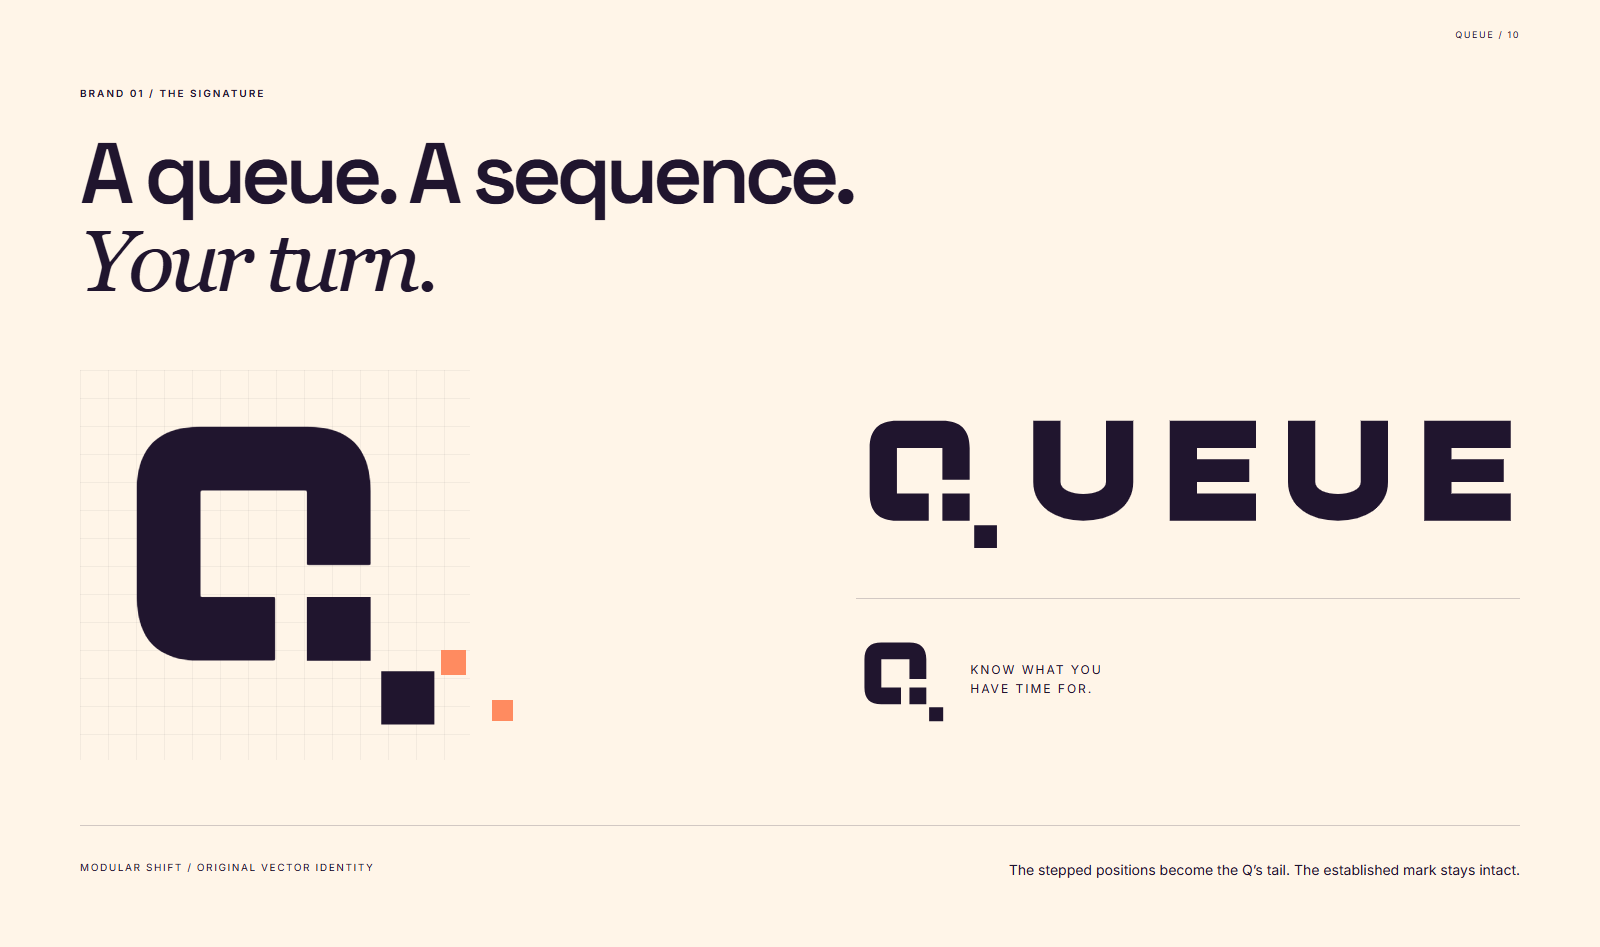
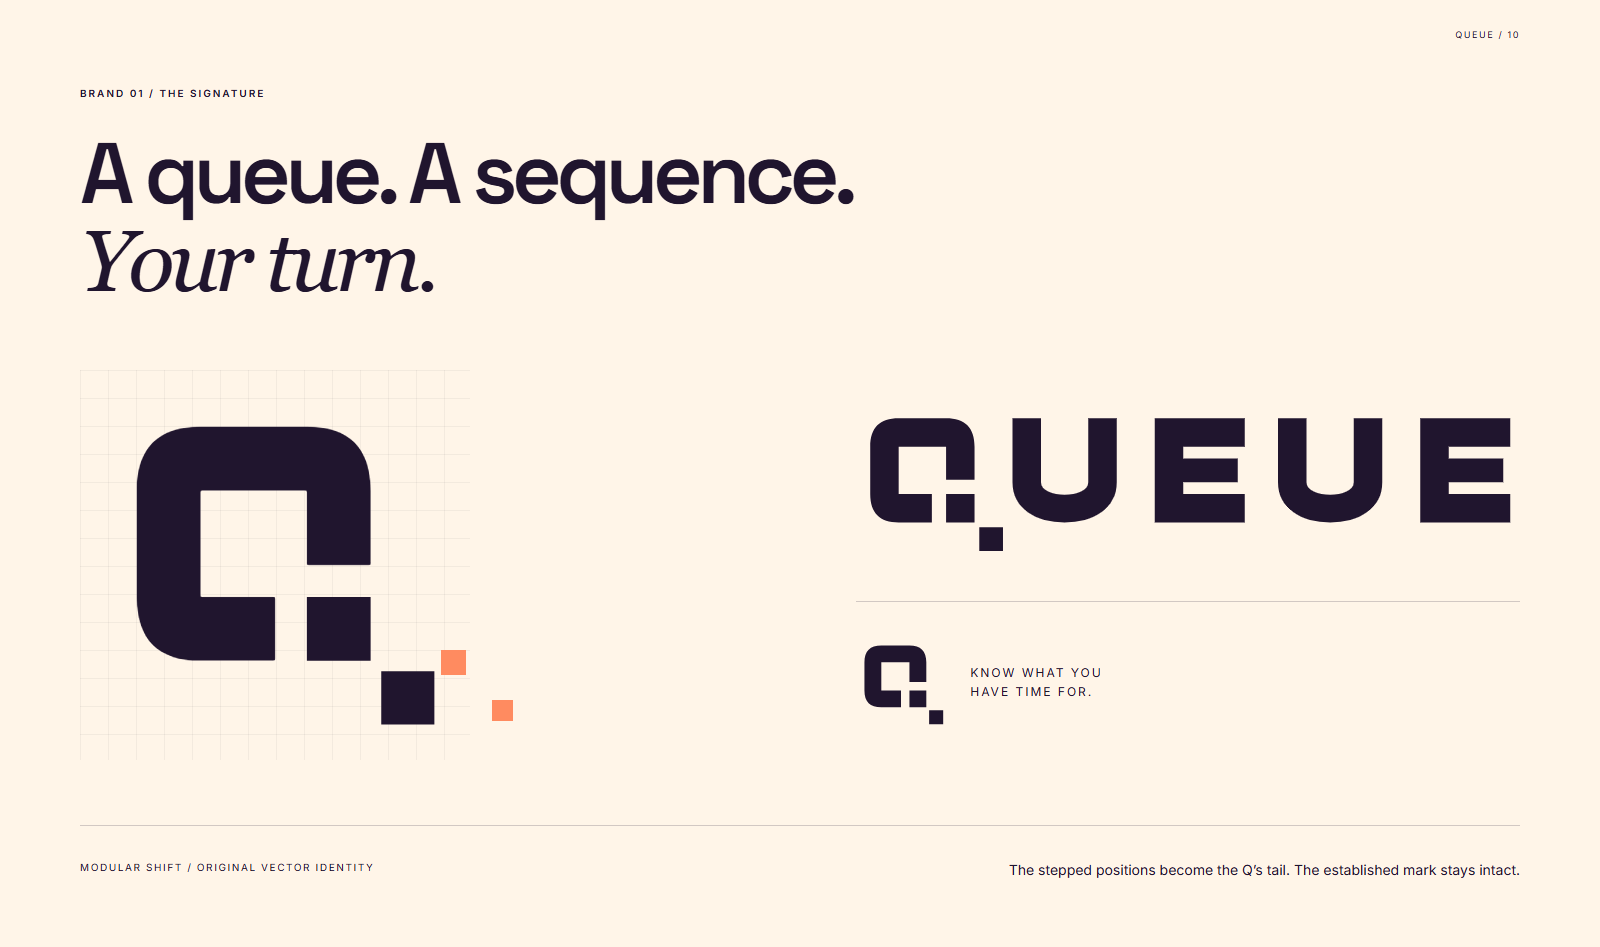
Tighten QUEUE wordmark spacing and preserve complete Q tail

diff --git a/exports/queue-behance/index.html b/exports/queue-behance/index.html
@@ -1,1 +1,1 @@
-<!doctype html><html lang="en"><meta charset="utf-8"><title>QUEUE — illustrated exhibition</title><style>body{margin:0;background:#20152e;color:#fff5e8;font:16px Arial}header{padding:36px}img{display:block;width:100%;max-width:1600px;height:auto;margin:auto}a{color:#a9ead2}</style><header><h1>QUEUE / illustrated brand & product exhibition</h1><p>33 original visual chapters. Static export; native scroll motion lives on the website.</p><a href="https://queue-six-liart.vercel.app/work/queue">Explore the interactive exhibition ↗</a></header><img loading="lazy" src="01-cover.png" width="1600" height="1200" alt="Make room for the moment."><img loading="lazy" src="02-project-overview.png" width="1600" height="833" alt="A night out. A connected plan."><img loading="lazy" src="03-everyday-problem.png" width="1600" height="1077" alt="“It’s only a four-minute queue.”"><img loading="lazy" src="04-the-45-minute-journey.png" width="1600" height="1387" alt="Four minutes waiting. Forty-five minutes living."><img loading="lazy" src="05-evidence-to-objectives.png" width="1600" height="1086" alt="Start with the right kind of confidence."><img loading="lazy" src="06-alternative-approaches.png" width="1600" height="1319" alt="Planners already exist. The opportunity is connection."><img loading="lazy" src="07-the-big-idea.png" width="1600" height="1221" alt="Not just a wait. A whole decision."><img loading="lazy" src="08-flow-and-architecture.png" width="1600" height="2026" alt="Follow the decision. Keep the way back."><img loading="lazy" src="09-ideation-to-interface.png" width="1600" height="1331" alt="Make the answer clear. Keep the reasoning close."><img loading="lazy" src="10-identity.png" width="1600" height="947" alt="A queue. A sequence. Your turn."><img loading="lazy" src="11-brand-symbols.png" width="1600" height="784" alt="Little decisions. One connected world."><img loading="lazy" src="12-color.png" width="1600" height="931" alt="A little warmth. A lot of feeling."><img loading="lazy" src="13-typography.png" width="1600" height="1028" alt="LOUD IN FEELING. Clear in function."><img loading="lazy" src="14-illustration-language.png" width="1600" height="1008" alt="Round corners. Unexpected turns. Very human moments."><img loading="lazy" src="15-character-exploration.png" width="1600" height="1004" alt="Three ways to keep you company."><img loading="lazy" src="16-interval.png" width="1600" height="931" alt="A little person. A whole night ahead."><img loading="lazy" src="17-iconography.png" width="1600" height="851" alt="Less guessing. More getting there."><img loading="lazy" src="18-patterns.png" width="1600" height="829" alt="Not background noise. A recognizable rhythm."><img loading="lazy" src="19-motion-language.png" width="1600" height="993" alt="Follow the path. Find your rhythm."><img loading="lazy" src="20-brand-applications.png" width="1600" height="1112" alt="Same spirit. Different surfaces."><img loading="lazy" src="21-identity-in-the-venue.png" width="1600" height="1192" alt="A world beyond the screen."><img loading="lazy" src="22-product-discovery.png" width="1600" height="1333" alt="Your night. Connected."><img loading="lazy" src="23-decisions-in-the-interface.png" width="1600" height="1284" alt="Every detail has a job."><img loading="lazy" src="24-food-decisions.png" width="1600" height="1203" alt="A detour that adds up."><img loading="lazy" src="25-when-plans-change.png" width="1600" height="939" alt="The set moves. Your plan keeps up."><img loading="lazy" src="26-your-people.png" width="1600" height="1203" alt="Less “where are you?” More “see you there.”"><img loading="lazy" src="27-a-better-way.png" width="1600" height="1203" alt="Different routes. The same next moment."><img loading="lazy" src="28-room-for-everyone.png" width="1600" height="1064" alt="Room to breathe. More ways through."><img loading="lazy" src="29-room-to-plan.png" width="1600" height="1588" alt="More space. More perspective."><img loading="lazy" src="30-iteration-and-validation.png" width="1600" height="1678" alt="A map can look complete. It still needs a way through."><img loading="lazy" src="31-reflection.png" width="1600" height="1216" alt="Design the decision. Not just the screen."><img loading="lazy" src="32-the-whole-night.png" width="1600" height="1488" alt="Find your rhythm. Keep your night."><img loading="lazy" src="33-closing.png" width="1600" height="800" alt="Make the moment. Not the mental maths."></html>
+<!doctype html><html lang="en"><meta charset="utf-8"><title>QUEUE — illustrated exhibition</title><style>body{margin:0;background:#20152e;color:#fff5e8;font:16px Arial}header{padding:36px}img{display:block;width:100%;max-width:1600px;height:auto;margin:auto}a{color:#a9ead2}</style><header><h1>QUEUE / illustrated brand & product exhibition</h1><p>33 original visual chapters. Static export; native scroll motion lives on the website.</p><a href="https://queue-six-liart.vercel.app/work/queue">Explore the interactive exhibition ↗</a></header><img loading="lazy" src="01-cover.png" width="1600" height="1200" alt="Make room for the moment."><img loading="lazy" src="02-project-overview.png" width="1600" height="833" alt="A night out. A connected plan."><img loading="lazy" src="03-everyday-problem.png" width="1600" height="1077" alt="“It’s only a four-minute queue.”"><img loading="lazy" src="04-the-45-minute-journey.png" width="1600" height="1387" alt="Four minutes waiting. Forty-five minutes living."><img loading="lazy" src="05-evidence-to-objectives.png" width="1600" height="1086" alt="Start with the right kind of confidence."><img loading="lazy" src="06-alternative-approaches.png" width="1600" height="1319" alt="Planners already exist. The opportunity is connection."><img loading="lazy" src="07-the-big-idea.png" width="1600" height="1221" alt="Not just a wait. A whole decision."><img loading="lazy" src="08-flow-and-architecture.png" width="1600" height="2026" alt="Follow the decision. Keep the way back."><img loading="lazy" src="09-ideation-to-interface.png" width="1600" height="1331" alt="Make the answer clear. Keep the reasoning close."><img loading="lazy" src="10-identity.png" width="1600" height="947" alt="A queue. A sequence. Your turn."><img loading="lazy" src="11-brand-symbols.png" width="1600" height="784" alt="Little decisions. One connected world."><img loading="lazy" src="12-color.png" width="1600" height="931" alt="A little warmth. A lot of feeling."><img loading="lazy" src="13-typography.png" width="1600" height="1028" alt="LOUD IN FEELING. Clear in function."><img loading="lazy" src="14-illustration-language.png" width="1600" height="1008" alt="Round corners. Unexpected turns. Very human moments."><img loading="lazy" src="15-character-exploration.png" width="1600" height="1004" alt="Three ways to keep you company."><img loading="lazy" src="16-interval.png" width="1600" height="931" alt="A little person. A whole night ahead."><img loading="lazy" src="17-iconography.png" width="1600" height="851" alt="Less guessing. More getting there."><img loading="lazy" src="18-patterns.png" width="1600" height="829" alt="Not background noise. A recognizable rhythm."><img loading="lazy" src="19-motion-language.png" width="1600" height="993" alt="Follow the path. Find your rhythm."><img loading="lazy" src="20-brand-applications.png" width="1600" height="1116" alt="Same spirit. Different surfaces."><img loading="lazy" src="21-identity-in-the-venue.png" width="1600" height="1192" alt="A world beyond the screen."><img loading="lazy" src="22-product-discovery.png" width="1600" height="1333" alt="Your night. Connected."><img loading="lazy" src="23-decisions-in-the-interface.png" width="1600" height="1284" alt="Every detail has a job."><img loading="lazy" src="24-food-decisions.png" width="1600" height="1203" alt="A detour that adds up."><img loading="lazy" src="25-when-plans-change.png" width="1600" height="939" alt="The set moves. Your plan keeps up."><img loading="lazy" src="26-your-people.png" width="1600" height="1203" alt="Less “where are you?” More “see you there.”"><img loading="lazy" src="27-a-better-way.png" width="1600" height="1203" alt="Different routes. The same next moment."><img loading="lazy" src="28-room-for-everyone.png" width="1600" height="1064" alt="Room to breathe. More ways through."><img loading="lazy" src="29-room-to-plan.png" width="1600" height="1588" alt="More space. More perspective."><img loading="lazy" src="30-iteration-and-validation.png" width="1600" height="1678" alt="A map can look complete. It still needs a way through."><img loading="lazy" src="31-reflection.png" width="1600" height="1216" alt="Design the decision. Not just the screen."><img loading="lazy" src="32-the-whole-night.png" width="1600" height="1499" alt="Find your rhythm. Keep your night."><img loading="lazy" src="33-closing.png" width="1600" height="800" alt="Make the moment. Not the mental maths."></html>

diff --git a/src/brand-identity.js b/src/brand-identity.js
@@ -8,6 +8,6 @@ export const concepts=[
  {name:'06 / Typographic cut',idea:'A compact type character with a deliberate diagonal release.',shape:'<path fill-rule="evenodd" d="M31 5C15 5 6 14 6 29s9 24 25 24 25-9 25-24S47 5 31 5Zm0 11c8 0 13 5 13 13s-5 13-13 13-13-5-13-13 5-13 13-13Z"/><path d="m32 32 26 20-8 10-26-21Z"/>',scores:[3,5,3,5,5,5,5]}
 ];
 export const markPaths=concepts[3].shape;
-export const wordPaths=`${markPaths}<path d="M78 6h12v27c0 7 20 7 20 0V6h12v27c0 11-10 17-22 17S78 44 78 33ZM138 6h38v12h-26v5h23v10h-23v5h26v12h-38ZM190 6h12v27c0 7 20 7 20 0V6h12v27c0 11-10 17-22 17s-22-6-22-17ZM250 6h38v12h-26v5h23v10h-23v5h26v12h-38Z"/>`;
+export const wordPaths=`${markPaths}<g transform="translate(-12 0)"><path d="M78 6h12v27c0 7 20 7 20 0V6h12v27c0 11-10 17-22 17S78 44 78 33ZM138 6h38v12h-26v5h23v10h-23v5h26v12h-38ZM190 6h12v27c0 7 20 7 20 0V6h12v27c0 11-10 17-22 17s-22-6-22-17ZM250 6h38v12h-26v5h23v10h-23v5h26v12h-38Z"/></g>`;
 export const LogoMark=({label='',className=''}={})=>`<svg class="brand-mark ${className}" xmlns="http://www.w3.org/2000/svg" viewBox="0 0 64 64" fill="currentColor" ${label?`role="img" aria-label="${label}"`:'aria-hidden="true"'}>${markPaths}</svg>`;
-export const Logo=({variant='wordmark',label='',className=''}={})=>variant==='mark'?LogoMark({label,className}):`<svg class="brand-logo ${className}" xmlns="http://www.w3.org/2000/svg" viewBox="0 0 ${variant==='primary'?380:292} 64" fill="currentColor" ${label?`role="img" aria-label="${label}"`:'aria-hidden="true"'}>${variant==='primary'?markPaths+'<g transform="translate(88)">'+wordPaths+'</g>':wordPaths}</svg>`;
+export const Logo=({variant='wordmark',label='',className=''}={})=>variant==='mark'?LogoMark({label,className}):`<svg class="brand-logo ${className}" xmlns="http://www.w3.org/2000/svg" viewBox="0 0 ${variant==='primary'?368:280} 64" fill="currentColor" ${label?`role="img" aria-label="${label}"`:'aria-hidden="true"'}>${variant==='primary'?markPaths+'<g transform="translate(88)">'+wordPaths+'</g>':wordPaths}</svg>`;

diff --git a/src/queue-scroll.js b/src/queue-scroll.js
@@ -39,7 +39,7 @@ export function initExhibition(root){
    study.querySelectorAll('.qx-pattern-window svg').forEach((el,i)=>gsap.fromTo(el,{xPercent:i?8:-8},{xPercent:i?-8:8,ease:'none',scrollTrigger:{trigger:'#patterns',start:'top bottom',end:'bottom top',scrub:true}}));
    gsap.fromTo('.qx-icon-field .icon',{rotation:-12},{rotation:12,stagger:.05,ease:'none',scrollTrigger:{trigger:'#iconography',start:'top 80%',end:'bottom 30%',scrub:true}});
    gsap.fromTo('.qx-celebration .qa-arm',{rotation:-9,transformOrigin:'50% 75%'},{rotation:12,stagger:.1,ease:'none',scrollTrigger:{trigger:'#the-whole-night',start:'top 70%',end:'bottom 40%',scrub:true}});
-   gsap.fromTo('.qx-cover-word .brand-logo',{clipPath:'inset(0 0 15% 0)'},{clipPath:'inset(0 0% 0 0)',ease:'none',scrollTrigger:{trigger:'#cover',start:'top top',end:'35% top',scrub:true}});
+   gsap.fromTo('.qx-cover-word .brand-logo',{scale:.97,transformOrigin:'0% 50%'},{scale:1,ease:'none',scrollTrigger:{trigger:'#cover',start:'top top',end:'35% top',scrub:true}});
    study.querySelectorAll('.qx-ia-connectors path').forEach(p=>{const l=p.getTotalLength();gsap.fromTo(p,{strokeDasharray:l,strokeDashoffset:l},{strokeDashoffset:0,ease:'none',scrollTrigger:{trigger:'#flow-and-architecture',start:'top 75%',end:'35% 50%',scrub:true}})});
    gsap.fromTo('.qx-ia-node',{y:18},{y:-8,stagger:.12,ease:'none',scrollTrigger:{trigger:'.qx-ia-map',start:'top 80%',end:'bottom 30%',scrub:true}});
    gsap.to('.qx-evolution-draft',{clipPath:'inset(0 0 100% 0)',ease:'none',scrollTrigger:{trigger:'#ideation-to-interface',start:'top 60%',end:'bottom 65%',scrub:true}});
